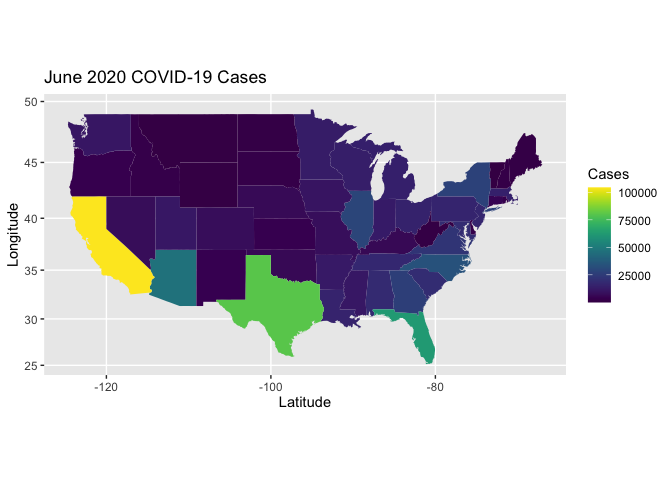
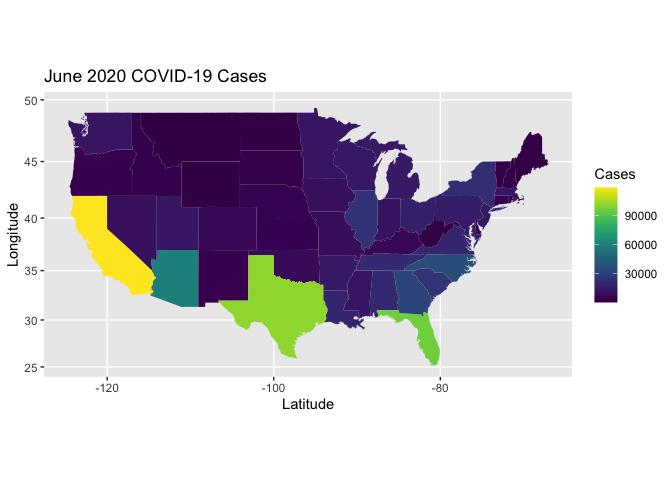
Adjusted month  end dates

diff --git a/challenges/c06-covid19-assignment.md b/challenges/c06-covid19-assignment.md
@@ -851,7 +851,7 @@ df_states_2020_07_total <-
 ``` r
 df_states_2020_06_total <-
   df_data %>%
-  filter(date == "2020-06-25") %>%
+  filter(date == "2020-06-30") %>%
   mutate(region = tolower(state)) %>%
   group_by(region) %>%
   summarize(junecases = sum(cases, na.rm = TRUE), junedeaths = sum(deaths, na.rm = TRUE), pop = sum(population, na.rm = TRUE))
@@ -862,7 +862,7 @@ df_states_2020_06_total <-
 ``` r
 df_states_2020_05_total <-
   df_data %>%
-  filter(date == "2020-05-25") %>%
+  filter(date == "2020-05-31") %>%
   mutate(region = tolower(state)) %>%
   group_by(region) %>%
   summarize(maycases = sum(cases, na.rm = TRUE), maydeaths = sum(deaths, na.rm = TRUE), pop = sum(population, na.rm = TRUE))
@@ -873,7 +873,7 @@ df_states_2020_05_total <-
 ``` r
 df_states_2020_04_total <-
   df_data %>%
-  filter(date == "2020-04-25") %>%
+  filter(date == "2020-04-30") %>%
   mutate(region = tolower(state)) %>%
   group_by(region) %>%
   summarize(aprilcases = sum(cases, na.rm = TRUE), aprildeaths = sum(deaths, na.rm = TRUE), pop = sum(population, na.rm = TRUE))
@@ -884,7 +884,7 @@ df_states_2020_04_total <-
 ``` r
 df_states_2020_03_total <-
   df_data %>%
-  filter(date == "2020-03-25") %>%
+  filter(date == "2020-03-31") %>%
   mutate(region = tolower(state)) %>%
   group_by(region) %>%
   summarize(marchcases = sum(cases, na.rm = TRUE), marchdeaths = sum(deaths, na.rm = TRUE), pop = sum(population, na.rm = TRUE))
@@ -911,16 +911,16 @@ df_diffs
     ## # A tibble: 55 x 20
     ##    region julycases julydeaths  pop.x junecases junedeaths  pop.y maycases
     ##    <chr>      <dbl>      <dbl>  <dbl>     <dbl>      <dbl>  <dbl>    <dbl>
-    ##  1 alaba…     78130       1456 4.86e6     33206        896 4.86e6    14986
-    ##  2 alaska      2866         18 7.35e5       971         10 7.26e5      412
-    ##  3 arizo…    160055       3288 6.95e6     63297       1495 6.95e6    16561
-    ##  4 arkan…     37981        399 2.99e6     18062        240 2.99e6     6029
-    ##  5 calif…    453327       8428 3.91e7    201413       5810 3.91e7    97017
-    ##  6 color…     43847       1795 5.53e6     31463       1669 5.53e6    24256
-    ##  7 conne…     48776       4413 3.58e6     45994       4298 3.58e6    40873
-    ##  8 delaw…     14175        579 9.49e5     10980        507 9.49e5     8965
-    ##  9 distr…     11717        581 6.84e5     10159        543 6.84e5     8225
-    ## 10 flori…    414503       5776 2.06e7    114010       3326 2.06e7    51738
+    ##  1 alaba…     78130       1456 4.86e6     38045        950 4.86e6    17952
+    ##  2 alaska      2866         18 7.35e5      1132         12 7.26e5      469
+    ##  3 arizo…    160055       3288 6.95e6     79399       1645 6.95e6    19936
+    ##  4 arkan…     37981        399 2.99e6     20777        270 2.99e6     7253
+    ##  5 calif…    453327       8428 3.91e7    232153       6083 3.91e7   113114
+    ##  6 color…     43847       1795 5.53e6     32698       1690 5.53e6    26364
+    ##  7 conne…     48776       4413 3.58e6     46514       4322 3.58e6    42201
+    ##  8 delaw…     14175        579 9.49e5     11474        509 9.49e5     9498
+    ##  9 distr…     11717        581 6.84e5     10327        551 6.84e5     8801
+    ## 10 flori…    414503       5776 2.06e7    152426       3504 2.06e7    56155
     ## # … with 45 more rows, and 12 more variables: maydeaths <dbl>, pop.x.x <dbl>,
     ## #   aprilcases <dbl>, aprildeaths <dbl>, pop.y.y <dbl>, marchcases <dbl>,
     ## #   marchdeaths <dbl>, pop <dbl>, julycasediff <dbl>, junecasediff <dbl>,
